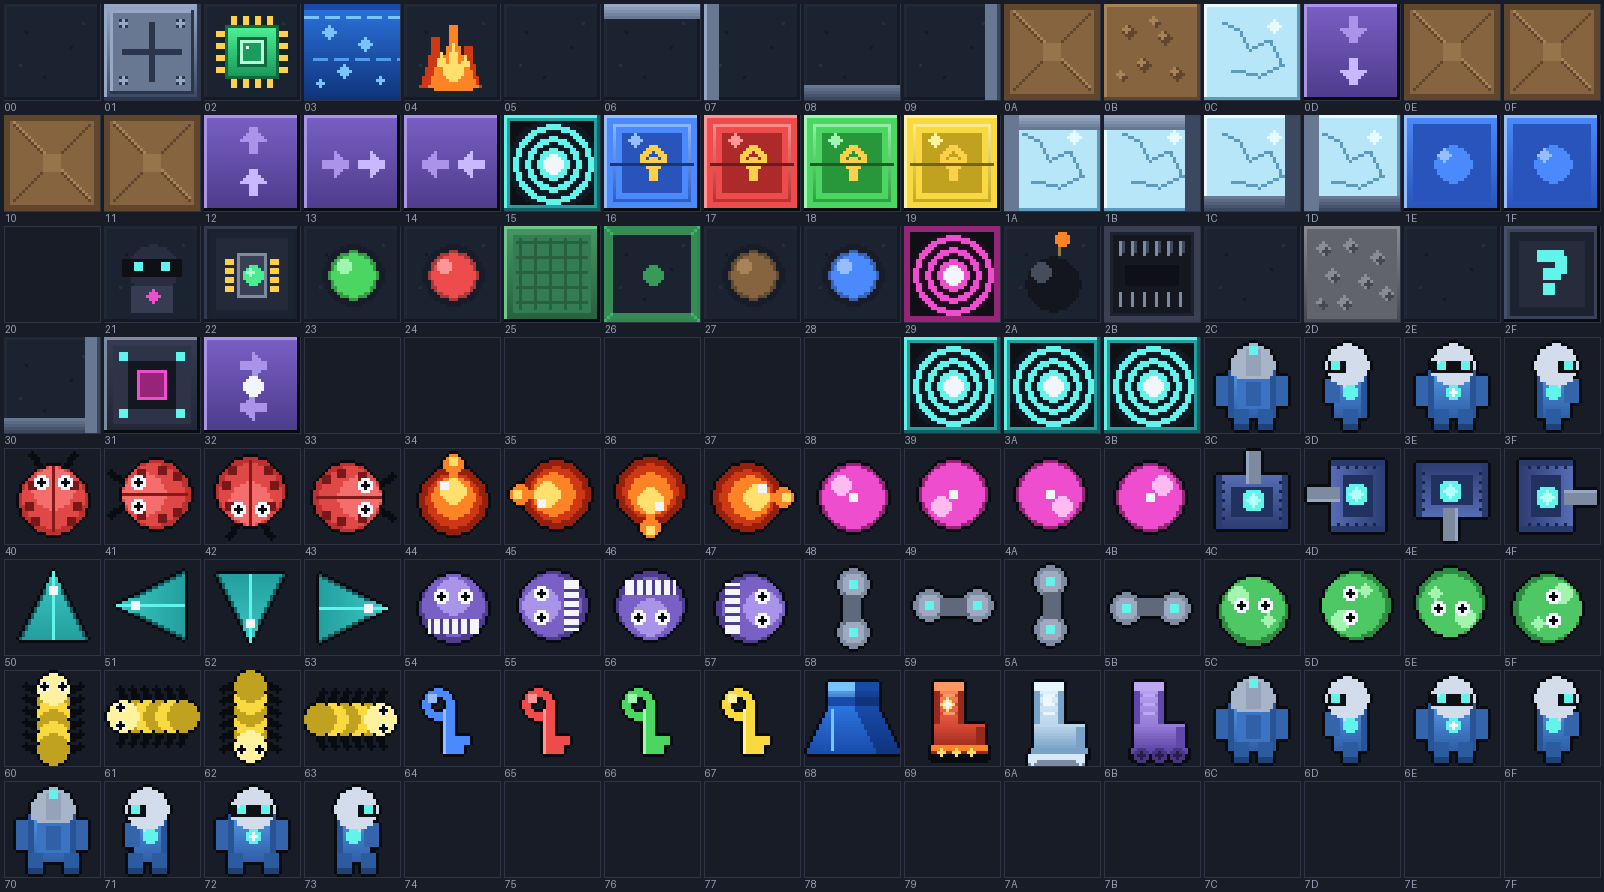
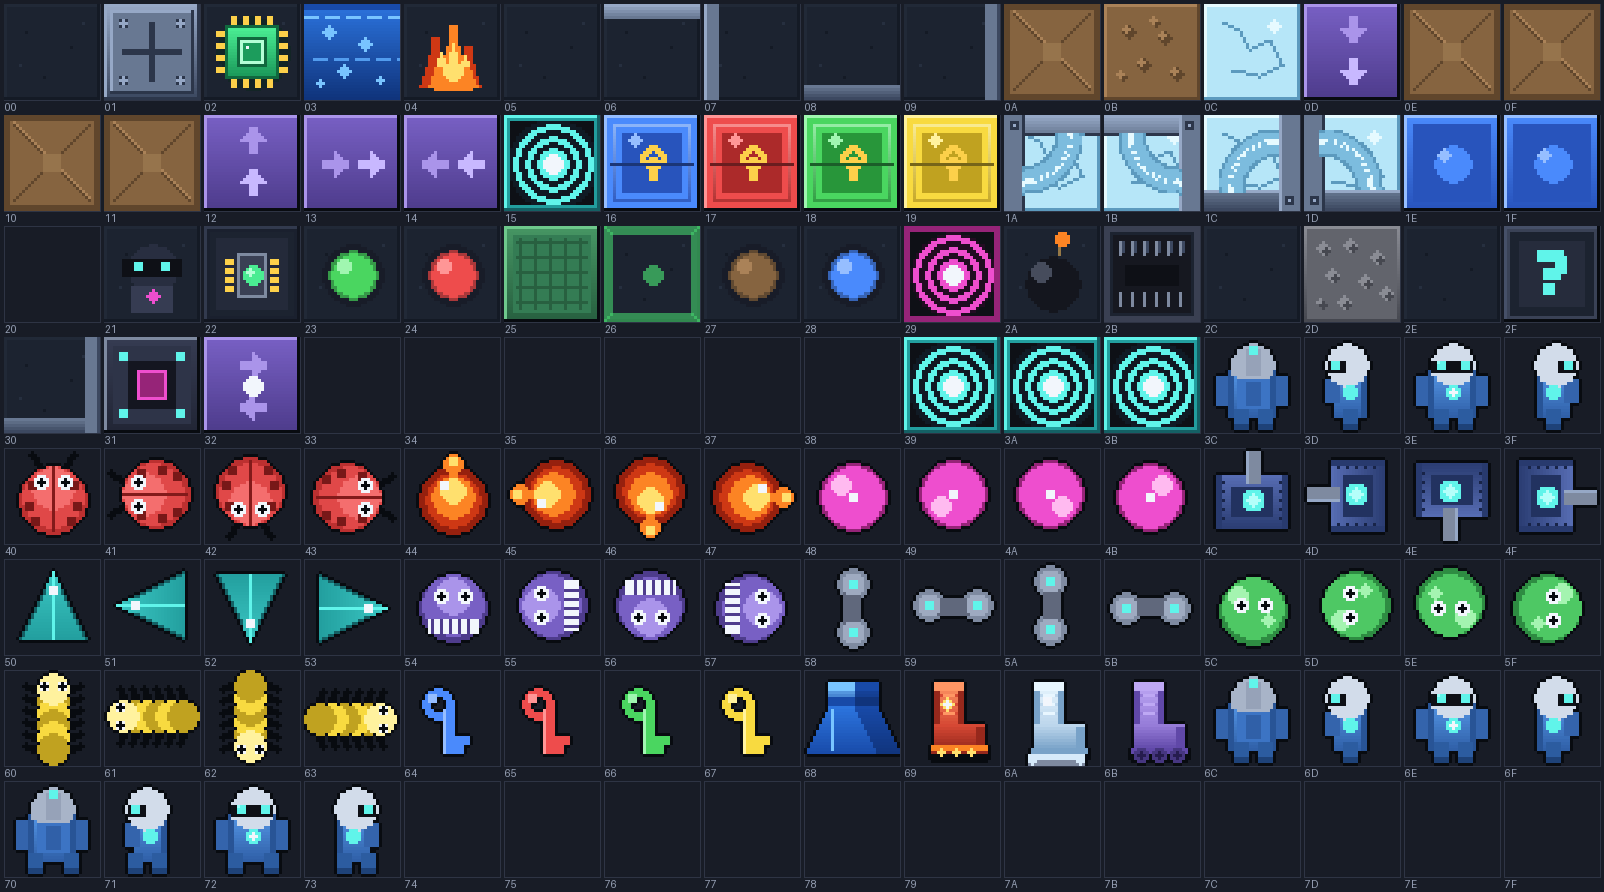
fix(circuitrunner): erkennbare Eis-Ecken-Grafik + CC-korrekte Umlenkung
Feedback 'Eis-Kurven nicht erkennbar':
- Eis-Ecken neu gezeichnet -- deutliche gekruemmte Eis-Rinne (Viertelkreis,
  gefuellt + Glanz-Mittellinie) verbindet die zwei OFFENEN Kanten, L-Wand in
  der geschlossenen Ecke. Fuer alle 4 Richtungen klar lesbar, wohin es biegt.
- Vorher widersprach die Grafik der Engine (Waende auf falscher Seite) UND die
  Code->Ecke-Zuordnung war nicht CC-konform. Jetzt beides CC-korrekt &
  konsistent: 1A=offen SE, 1B=SW, 1C=NW, 1D=NE (corner_redirect + Grafik aus
  derselben Definition).
- Headless verifiziert: Monster biegt in jeder Ecke passend zur Rinne ab
  (1A N->E/W->S, 1B N->W, 1C S->W, 1D S->E). Gilt auch fuer den Spieler.

Changed region(s): [[0.6234, 0.1211, 0.8728, 0.2422]]

diff --git a/circuitrunner/make_tiles.py b/circuitrunner/make_tiles.py
@@ -264,18 +264,46 @@ def t_ice():
     return c.im
 
 
-def t_ice_corner(kind):
-    c = C(); c.im.alpha_composite(t_ice())
-    walls = {"SE": ("S", "E"), "SW": ("S", "W"), "NW": ("N", "W"), "NE": ("N", "E")}[kind]
-    for d in walls:
-        if d == "S":
-            c.vgrad(0, S - 5, S - 1, S - 1, WALL, WALL_D)
-        elif d == "N":
-            c.vgrad(0, 0, S - 1, 4, WALL_L, WALL)
-        elif d == "W":
-            c.rect(0, 0, 4, S - 1, WALL)
+def ice_corner(closed):
+    """Eis-Ecke. `closed` = Ecke, an der die zwei Waende zusammenstossen
+    (die offene/gekruemmte Seite liegt gegenueber). Zeigt eine deutliche
+    gekruemmte Eis-Rinne, die die zwei OFFENEN Kanten verbindet."""
+    c = C()
+    c.im.alpha_composite(t_ice())
+    tw = 7
+    edges = {"NW": ("N", "W"), "NE": ("N", "E"), "SE": ("S", "E"), "SW": ("S", "W")}[closed]
+    for e in edges:
+        if e == "N":
+            c.vgrad(0, 0, S - 1, tw - 1, WALL_L, WALL); c.hline(0, S - 1, tw - 1, WALL_DD)
+        elif e == "S":
+            c.vgrad(0, S - tw, S - 1, S - 1, WALL, WALL_D); c.hline(0, S - 1, S - tw, WALL_L)
+        elif e == "W":
+            c.rect(0, 0, tw - 1, S - 1, WALL); c.vline(tw - 1, 0, S - 1, WALL_DD)
         else:
-            c.rect(S - 5, 0, S - 1, S - 1, WALL_D)
+            c.rect(S - tw, 0, S - 1, S - 1, WALL); c.vline(S - tw, 0, S - 1, WALL_L)
+    # Nieten in der Wand-Ecke
+    corner_pt = {"NW": (3, 3), "NE": (S - 4, 3), "SE": (S - 4, S - 4), "SW": (3, S - 4)}[closed]
+    c.disc(corner_pt[0], corner_pt[1], 1.4, WALL_DD); c.set(corner_pt[0], corner_pt[1], WALL_L)
+    # gekruemmte Eis-Rinne = Viertelkreis um die geschlossene Ecke
+    cen = {"NW": (tw - 1, tw - 1), "NE": (S - tw, tw - 1),
+           "SE": (S - tw, S - tw), "SW": (tw - 1, S - tw)}[closed]
+    cx, cy = cen
+    a0, a1 = {"NW": (0, 90), "NE": (90, 180), "SE": (180, 270), "SW": (270, 360)}[closed]
+    r1, r2 = 12, 20
+    deg = a0 * 4
+    while deg <= a1 * 4:
+        a = math.radians(deg / 4.0)
+        ca, sa = math.cos(a), math.sin(a)
+        r = r1
+        while r <= r2:                                  # Rinne fuellen
+            c.set(cx + r * ca, cy + r * sa, ICE_D)
+            r += 0.5
+        c.set(cx + r1 * ca, cy + r1 * sa, ICE_DD)       # innere Kante
+        c.set(cx + r2 * ca, cy + r2 * sa, ICE_DD)       # aeussere Kante
+        rm = (r1 + r2) / 2.0
+        c.set(cx + rm * ca, cy + rm * sa, ICE_L)        # Glanz-Mittellinie
+        c.set(cx + (rm + 1) * ca, cy + (rm + 1) * sa, ICE_L)
+        deg += 1
     return c.im
 
 
@@ -809,8 +837,12 @@ def build():
     cells[0x17] = t_door(KEYRED, KEYRED_D, KEYRED_L)
     cells[0x18] = t_door(KEYGRN, KEYGRN_D, KEYGRN_L)
     cells[0x19] = t_door(KEYYEL, KEYYEL_D, KEYYEL_L)
-    cells[0x1A] = t_ice_corner("NW"); cells[0x1B] = t_ice_corner("NE")
-    cells[0x1C] = t_ice_corner("SE"); cells[0x1D] = t_ice_corner("SW")
+    # CC-Codes: 1A=offen SE, 1B=offen SW, 1C=offen NW, 1D=offen NE
+    # -> geschlossene (Wand-)Ecke ist jeweils gegenueber
+    cells[0x1A] = ice_corner("NW")   # offen SE
+    cells[0x1B] = ice_corner("NE")   # offen SW
+    cells[0x1C] = ice_corner("SE")   # offen NW
+    cells[0x1D] = ice_corner("SW")   # offen NE
     cells[0x1E] = t_blue_wall(); cells[0x1F] = t_blue_wall()
     cells[0x21] = t_thief(); cells[0x22] = t_socket()
     cells[0x23] = t_button(KEYGRN, KEYGRN_L); cells[0x24] = t_button(KEYRED, KEYRED_L)
